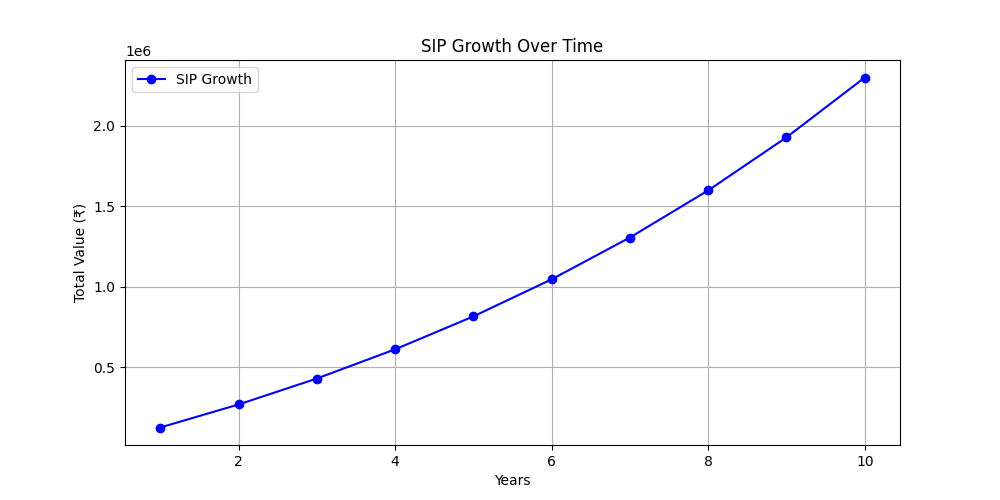
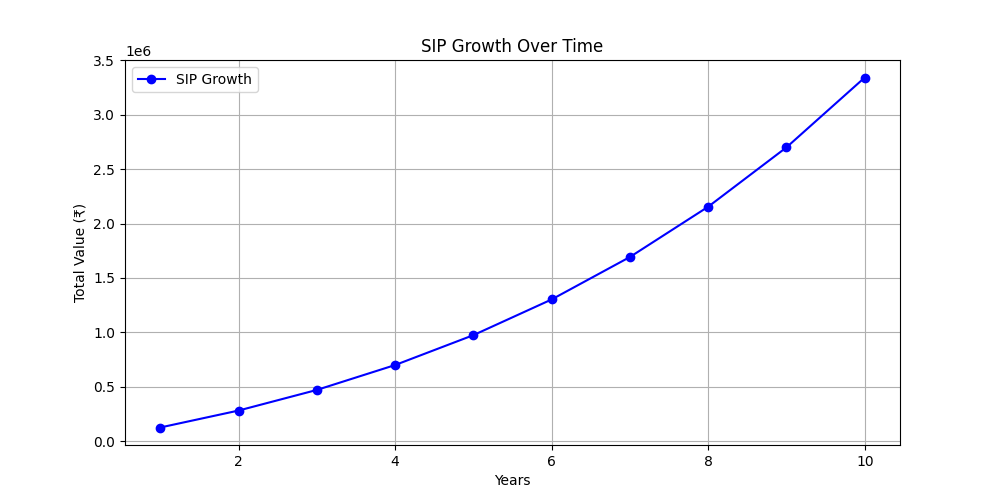
Fixed Step-Up calculation, ensured correct graph display.

diff --git a/backend/templates/calculator.html b/backend/templates/calculator.html
@@ -49,6 +49,7 @@
             <input type="number" id="sip_amount" placeholder="Monthly Investment">
             <input type="number" id="years" placeholder="Duration (Years)">
             <input type="number" id="return_rate" placeholder="Expected Return Rate">
+            <input type="number" id="increase_rate" placeholder="Annual Increase Rate">
             <button onclick="calculateSIP()">Calculate</button>
         </div>
         <div class="result" id="result"></div>
@@ -59,6 +60,7 @@
                 let sip_amount = document.getElementById('sip_amount').value;
                 let years = document.getElementById('years').value;
                 let return_rate = document.getElementById('return_rate').value;
+                let increase_rate = document.getElementById('increase_rate').value;
 
                 fetch('/calculate_sip', {
                     method: 'POST',
@@ -68,7 +70,8 @@
                     body: JSON.stringify({
                         monthly_investment: parseFloat(sip_amount),
                         years: parseFloat(years),
-                        annual_return: parseFloat(return_rate)
+                        annual_return: parseFloat(return_rate),
+                        annual_increase: parseFloat(increase_rate)
                     })
                 })
                 .then(response => response.json())
@@ -76,8 +79,10 @@
                     document.getElementById('result').innerHTML = `Final Amount: ₹${data.final_amount}`;
 
                     let graphElement = document.getElementById("graph");
-                    graphElement.src = data.graph_url;  // Set the graph image
-                    graphElement.style.display = "block";  // Show the graph
+                    if (data.graph_url) {
+                        graphElement.src = data.graph_url + "?timestamp=" + new Date().getTime();  // Force reload
+                        graphElement.style.display = "block";  // Show the graph
+                    }
                 })
                 .catch(error => console.error('Error:', error));
             }

diff --git a/backend/sip_calculator.py b/backend/sip_calculator.py
@@ -5,7 +5,7 @@ import matplotlib.pyplot as plt
 import numpy as np
 import os
 
-def calculate_sip(monthly_investment, years, annual_return):
+def calculate_sip(monthly_investment, years, annual_return, annual_increase=0):
     """
     Calculate the final amount for a fixed SIP Investment.
     Also generates a graph showing SIP growth over time.
@@ -13,6 +13,7 @@ def calculate_sip(monthly_investment, years, annual_return):
     :param monthly_investment: Fixed amount invested per month
     :param years: Duration of investment in years
     :param annual_return: Expected annual return on investment (in %)
+    :param annual_increase: Annual increase in SIP amount (in %)
     :return: Final corpus (Total value of investment)
     """
 
@@ -28,10 +29,13 @@ def calculate_sip(monthly_investment, years, annual_return):
     investment_timeline = []
     value_timeline = []
 
+    current_sip = monthly_investment # starting with initial sip
+
     for month in range(1, total_months + 1):
-        total_value = total_value * (1 + monthly_rate) + monthly_investment
-        if month % 12 == 0:
-            investment_timeline.append(month / 12)  # Convert months to years
+        total_value = total_value * (1 + monthly_rate) + current_sip
+        if month % 12 == 0: # every 12 months, increase sip
+            current_sip += current_sip * (annual_increase / 100)
+            investment_timeline.append(month / 12) # convert months to years
             value_timeline.append(total_value)
 
     # Ensure the 'static' directory exists
@@ -39,9 +43,10 @@ def calculate_sip(monthly_investment, years, annual_return):
     if not os.path.exists(static_folder):
         os.makedirs(static_folder)
 
+    # Assign graph path before using it
     graph_path = os.path.join(static_folder, "sip_growth.png")
-    plt.savefig(graph_path)  # Save the graph
-    plt.close()
+
+    print(f"Graph saved at: {graph_path}")
     
     # Plot the graph
     plt.figure(figsize=(10, 5))
@@ -53,7 +58,6 @@ def calculate_sip(monthly_investment, years, annual_return):
     plt.grid(True)
 
     # Save the graph
-    graph_path = os.path.join(static_folder, "sip_growth.png")
     plt.savefig(graph_path)  
     plt.close()
 
@@ -64,6 +68,7 @@ if __name__ == "__main__":
     P = 10000  # Example: ₹10,000 monthly SIP
     T = 10  # Example: 10 years
     R = 12  # Example: 12% annual return rate
+    increase = 10 #Example: SIP Increase by 10% annually
 
-    result = calculate_sip(P, T, R)
+    result = calculate_sip(P, T, R, increase)
     print(f"Final Amount after {T} years of SIP of ₹{P} per month @ {R}% annual return: ₹{result}")

diff --git a/backend/app.py b/backend/app.py
@@ -1,4 +1,4 @@
-from flask import Flask, request, jsonify, render_template, send_from_directory
+from flask import Flask, request, jsonify, render_template, send_from_directory, send_file
 from sip_calculator import calculate_sip
 import os
 
@@ -32,7 +32,7 @@ def list_routes():
 def sip_route():
     """
     API route to calculate SIP returns.
-    Expects JSON input with 'monthly_investment', 'years', 'annual_return'.
+    Expects JSON input with 'monthly_investment', 'years', 'annual_return', 'annual_increase.
     """
 
     data = request.get_json()
@@ -41,13 +41,14 @@ def sip_route():
     monthly_investment = data.get('monthly_investment', 0)
     years = data.get('years', 0)
     annual_return = data.get('annual_return', 0)
+    annual_increase = data.get('annual_increase', 0)
 
     # Validate input
     if not all([monthly_investment, years, annual_return]):
         return jsonify({"error": "Invalid Input. Please provide 'monthly_investment', 'years', and 'annual_return'."}), 400
     
     # Calculate SIP
-    final_amount = calculate_sip(monthly_investment, years, annual_return)  
+    final_amount = calculate_sip(monthly_investment, years, annual_return, annual_increase)  
 
     return jsonify({
         "final_amount": final_amount, 
@@ -63,7 +64,7 @@ def serve_sip_graph():
     if not os.path.exists(graph_path):
         return jsonify({"error": "Graph not found. Please run a SIP calculation first."}), 404
     
-    return send_from_directory('backend/static', 'sip_growth.png', mimetype='image/png')
+    return send_file(graph_path, mimetype='image/png')
 
 if __name__ == '__main__':
     app.run(debug=True)
